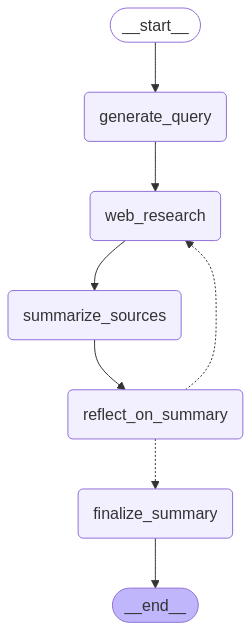
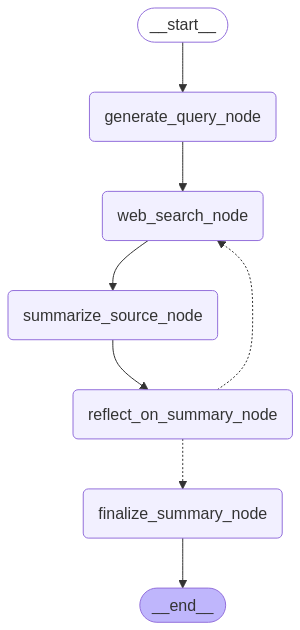
흠터레스팅

diff --git a/agent/deep_research_agent.py b/agent/deep_research_agent.py
@@ -1,15 +1,150 @@
-from dotenv import load_dotenv
+from typing import Literal
 
-from agent.deep_researcher.graph import graph
-from agent.shared.utils import draw_graph_png
+from dotenv import load_dotenv
+from langchain_core.messages import SystemMessage, HumanMessage
+from langchain_core.prompts import ChatPromptTemplate
+from langchain_ollama import ChatOllama
+from langgraph.constants import START, END
+from langgraph.graph import StateGraph
+from tavily import TavilyClient
+
+from agent.shared.prompts import QUERY_WRITER_INSTRUCTIONS, SUMMARIZE_INSTRUCTIONS, REFLECTION_INSTRUCTIONS
+from agent.shared.response_formats import QueryWriterResponse, ReflectionResponse
+from agent.shared.states import DeepResearchState
+from agent.shared.utils import clean_deepseek_chat_response, draw_graph_png
 
 load_dotenv()
 
 
+def generate_query_node(state: DeepResearchState):
+    llm = ChatOllama(model="qwen2.5:14b-instruct-q8_0", temperature=0.1).with_structured_output(QueryWriterResponse)
+    prompt = ChatPromptTemplate.from_messages(
+        [
+            SystemMessage(
+                content=QUERY_WRITER_INSTRUCTIONS.format(topic=state["research_topic"]),
+            ),
+        ]
+    )
+    chain = prompt | llm
+    chat_response = chain.invoke({"input": "Generate a query for web search:"})
+    return {
+        "research_query": chat_response.query,
+    }
+
+
+def web_search_node(state: DeepResearchState):
+    tavily_client = TavilyClient()
+    search_response = tavily_client.search(
+        query=state["research_query"],
+        max_results=1,
+        include_raw_content=True,
+    )
+    return {
+        "web_search_loop_count": state["web_search_loop_count"] + 1,
+        "web_search_responses": state["web_search_responses"] + [search_response],
+    }
+
+
+def summarize_source_node(state: DeepResearchState):
+    research_topic = state["research_topic"]
+    summary = state["summary"]
+    web_search_response = state["web_search_responses"][-1]
+
+    if summary:
+        human_message = (
+            f"<User Input>\n{research_topic}\n<User Input>\n\n"
+            f"<Existing Summary>\n{summary}\n<Existing Summary>\n\n"
+            f"<New Search Results>\n{web_search_response}\n<New Search Results>"
+        )
+    else:
+        human_message = (
+            f"<User Input>\n{research_topic}\n<User Input>\n\n"
+            f"<Search Results>\n{web_search_response}\n<Search Results>"
+        )
+
+    prompt = ChatPromptTemplate.from_messages(
+        [
+            SystemMessage(content=SUMMARIZE_INSTRUCTIONS),
+            HumanMessage(content=human_message),
+        ]
+    )
+    llm = ChatOllama(model="deepseek-r1:14b", temperature=0.1)
+    chain = prompt | llm
+    chat_response = chain.invoke({"input": research_topic})
+    return {
+        "summary": clean_deepseek_chat_response(chat_response.content),
+    }
+
+
+def reflect_on_summary_node(state: DeepResearchState):
+    llm = ChatOllama(model="qwen2.5:14b-instruct-q8_0", temperature=0.2).with_structured_output(ReflectionResponse)
+    prompt = ChatPromptTemplate.from_messages(
+        [
+            SystemMessage(content=REFLECTION_INSTRUCTIONS.format(topic=state["research_topic"])),
+            HumanMessage(
+                content="Identify a knowledge gap and generate a follow-up web search query based on our existing knowledge: {summary}"
+            ),
+        ]
+    )
+    chain = prompt | llm
+    chat_response = chain.invoke({"summary": state["summary"]})
+    return {
+        "search_query": chat_response.follow_up_query,
+        "keep_searching": chat_response.keep_searching,
+    }
+
+
+def finalize_summary_node(state: DeepResearchState):
+    # tools = [write_file_tool]
+    # llm = ChatOllama(model="qwen2.5:14b-instruct-q8_0", temperature=0.3).bind_tools(tools)
+    # prompt = ChatPromptTemplate.from_messages(
+    #     [
+    #         SystemMessage(content="Write a file of the following text"),
+    #         HumanMessage(content=f"Finalize the summary: {state['summary']}"),
+    #     ]
+    # )
+    return {
+        "summary": state["summary"],
+    }
+
+
+def router(state: DeepResearchState) -> Literal["finalize_summary_node", "web_search_node"]:
+    if state["web_search_loop_count"] <= state["max_web_search_loop_count"]:
+        return "finalize_summary_node"
+
+    if state["keep_searching"]:
+        return "web_search_node"
+
+    return "finalize_summary_node"
+
+
+graph_builder = StateGraph(DeepResearchState)
+graph_builder.add_node("generate_query_node", generate_query_node)
+graph_builder.add_node("web_search_node", web_search_node)
+graph_builder.add_node("summarize_source_node", summarize_source_node)
+graph_builder.add_node("reflect_on_summary_node", reflect_on_summary_node)
+graph_builder.add_node("finalize_summary_node", finalize_summary_node)
+
+graph_builder.add_edge(START, "generate_query_node")
+graph_builder.add_edge("generate_query_node", "web_search_node")
+graph_builder.add_edge("web_search_node", "summarize_source_node")
+graph_builder.add_edge("summarize_source_node", "reflect_on_summary_node")
+graph_builder.add_conditional_edges("reflect_on_summary_node", router)
+graph_builder.add_edge("finalize_summary_node", END)
+
+graph = graph_builder.compile()
 draw_graph_png("deep_research_agent.png", graph)
-stream = graph.stream({"research_topic": "kubernetes"})
+
+stream = graph.stream(
+    {
+        "research_topic": input("조사 주제:"),
+        "web_search_loop_count": 0,
+        "max_web_search_loop_count": 2,
+        "web_search_responses": [],
+        "keep_searching": False,
+        "summary": None,
+    }
+)
 for s in stream:
     for agent, e in s.items():
-        print("===========================")
         print(agent, e, flush=True)
-        print("===========================")

diff --git a/agent/shared/prompts.py b/agent/shared/prompts.py
@@ -19,11 +19,50 @@ Begin!
 Question: {input}
 Thought:{agent_scratchpad}""".strip()
 
-QUERY_WRITER_INSTRUCTIONS = """Your goal is to generate a targeted web search query.
-The query will gather information related to a specific topic.
+QUERY_WRITER_INSTRUCTIONS = """
+Your goal is to generate a targeted web search query. The query will gather information related to a specific topic.
+Always respond in Korean.
 
 <TOPIC>
 {topic}
-</TOPIC>
+</TOPIC>""".strip()
 
-Provide your response:"""
+SUMMARIZE_INSTRUCTIONS = """
+Generate a high-quality summary of the web search results and keep it concise / related to the user topic.
+Always respond in Korean.
+
+<REQUIREMENTS>
+When creating a NEW summary:
+1. Highlight the most relevant information related to the user topic from the search results
+2. Ensure a coherent flow of information
+
+When EXTENDING an existing summary:                                                                                                                 
+1. Read the existing summary and new search results carefully.                                                    
+2. Compare the new information with the existing summary.                                                         
+3. For each piece of new information:                                                                             
+    a. If it's related to existing points, integrate it into the relevant paragraph.                               
+    b. If it's entirely new but relevant, add a new paragraph with a smooth transition.                            
+    c. If it's not relevant to the user topic, skip it.                                                            
+4. Ensure all additions are relevant to the user's topic.                                                         
+5. Verify that your final output differs from the input summary.                                                                                                                                                            
+</REQUIREMENTS>
+
+<FORMATTING>
+- Start directly with the updated summary, without preamble or titles. Do not use XML tags in the output.  
+</FORMATTING>""".strip()
+
+REFLECTION_INSTRUCTIONS = """
+You are an expert research assistant analyzing a summary about {topic}.
+Always respond in Korean.
+
+<GOAL>
+1. Identify knowledge gaps or areas that need deeper exploration
+2. Generate a follow-up question that would help expand your understanding
+3. Focus on technical details, implementation specifics, or emerging trends that weren't fully covered
+</GOAL>
+
+<REQUIREMENTS>
+Ensure the follow-up question is self-contained and includes necessary context for web search.
+</REQUIREMENTS>
+
+Provide your analysis:""".strip()

diff --git a/agent/deep_researcher/graph.py b/agent/deep_researcher/graph.py
@@ -11,6 +11,7 @@ from agent.deep_researcher.configuration import Configuration
 from agent.deep_researcher.prompts import query_writer_instructions, summarizer_instructions, reflection_instructions
 from agent.deep_researcher.state import SummaryState, SummaryStateInput, SummaryStateOutput
 from agent.deep_researcher.utils import tavily_search, deduplicate_and_format_sources, format_sources
+from agent.shared.utils import draw_graph_png
 
 
 # Nodes
@@ -178,3 +179,11 @@ builder.add_conditional_edges("reflect_on_summary", route_research)
 builder.add_edge("finalize_summary", END)
 
 graph = builder.compile()
+
+draw_graph_png("deep_research_agent.png", graph)
+stream = graph.stream({"research_topic": "kubernetes"})
+for s in stream:
+    for agent, e in s.items():
+        print("===========================")
+        print(agent, e, flush=True)
+        print("===========================")

diff --git a/agent/shared/response_formats.py b/agent/shared/response_formats.py
@@ -14,3 +14,11 @@ class QueryWriterResponse(BaseModel):
     query: str = Field(description="The actual search query string")
     aspect: str = Field(description="The specific aspect of the topic being researched")
     rationale: str = Field(description="Brief explanation of why this query is relevant")
+
+
+class ReflectionResponse(BaseModel):
+    """Schema for a reflection response. This model represents the response structure for a reflection."""
+
+    knowledge_gap: str = Field(description="Describe what information is missing or needs clarification")
+    follow_up_query: str = Field(description="Write a specific question to address this gap")
+    keep_searching: bool = Field(description="Should the agent keep searching for more information?")

diff --git a/agent/shared/utils.py b/agent/shared/utils.py
@@ -1,3 +1,5 @@
+import re
+
 from langgraph.graph.state import CompiledStateGraph
 
 
@@ -7,3 +9,7 @@ def draw_graph_png(filepath: str, graph: CompiledStateGraph):
             f.write(graph.get_graph().draw_mermaid_png())
     except Exception as e:
         print("Failed to draw graph cause by:", e)
+
+
+def clean_deepseek_chat_response(chat_response: str):
+    return re.sub(r'<think>.*?</think>', '', chat_response, flags=re.DOTALL).strip()

diff --git a/agent/shared/states.py b/agent/shared/states.py
@@ -1,0 +1,11 @@
+from typing import TypedDict
+
+
+class DeepResearchState(TypedDict):
+    research_topic: str
+    research_query: str
+    web_search_loop_count: int
+    max_web_search_loop_count: int
+    web_search_responses: list
+    keep_searching: bool
+    summary: str
